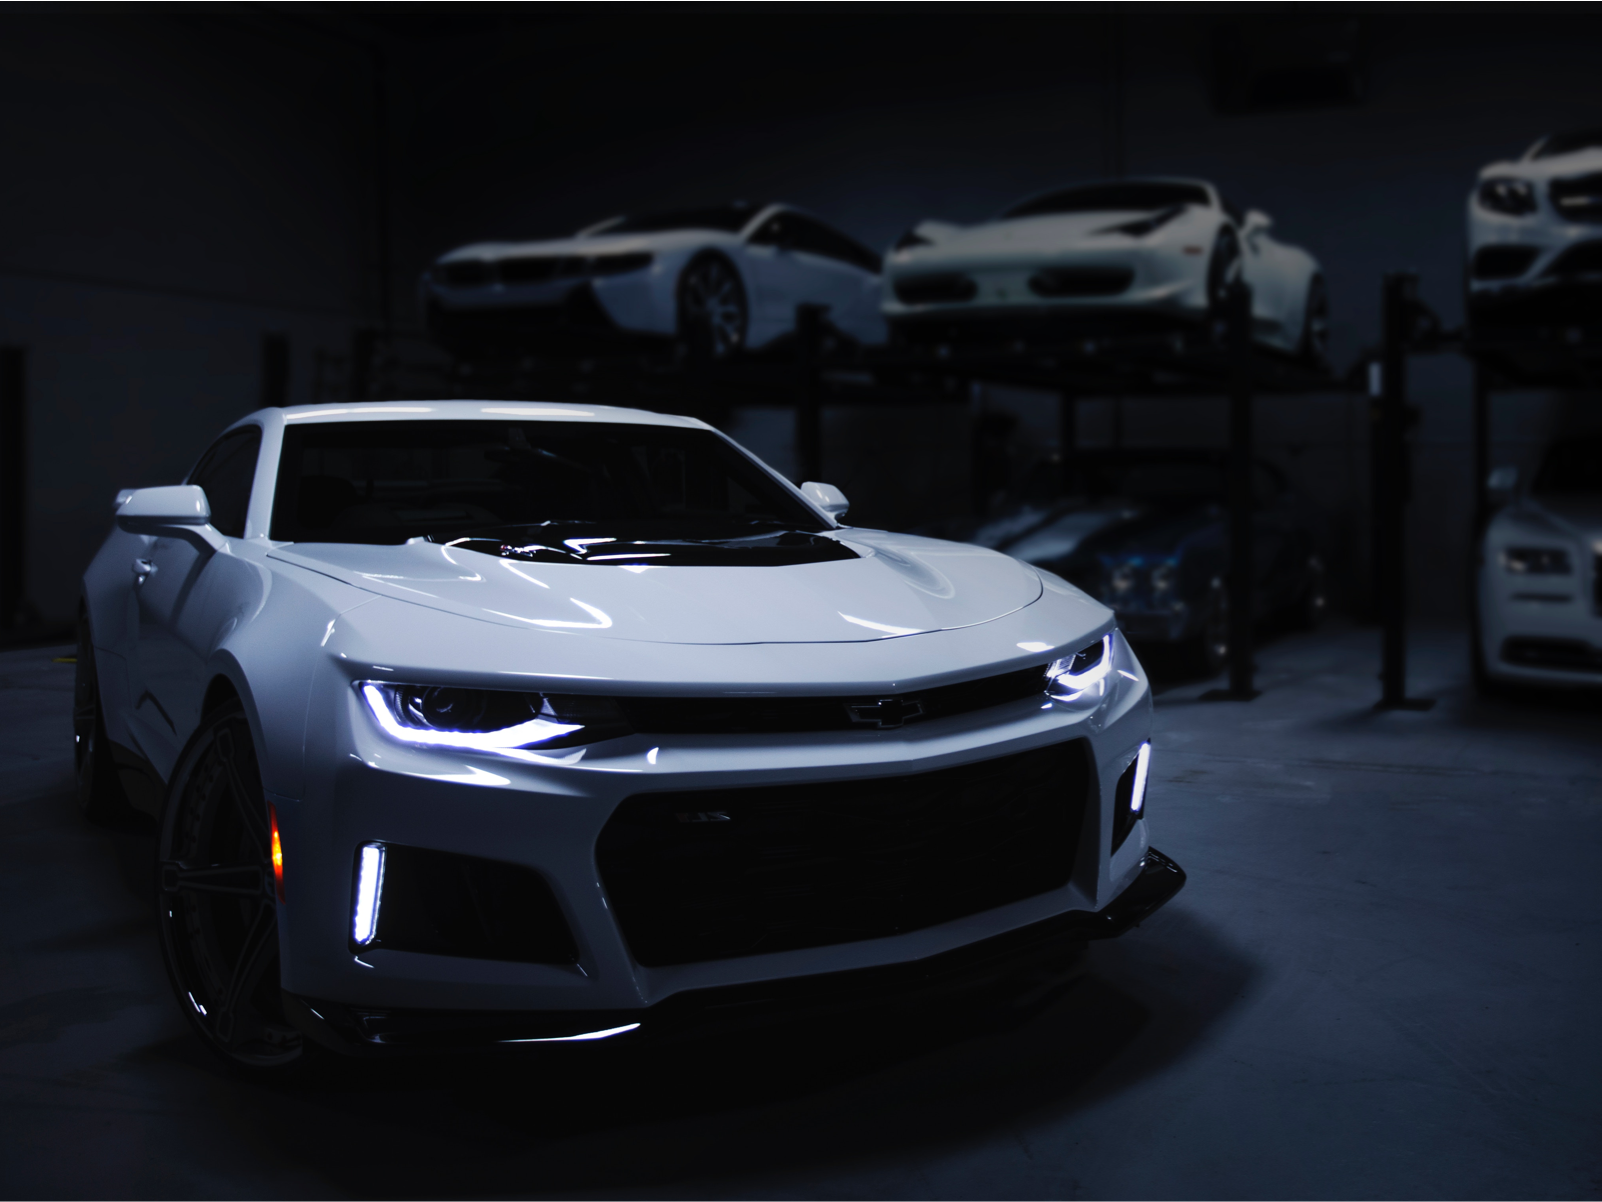
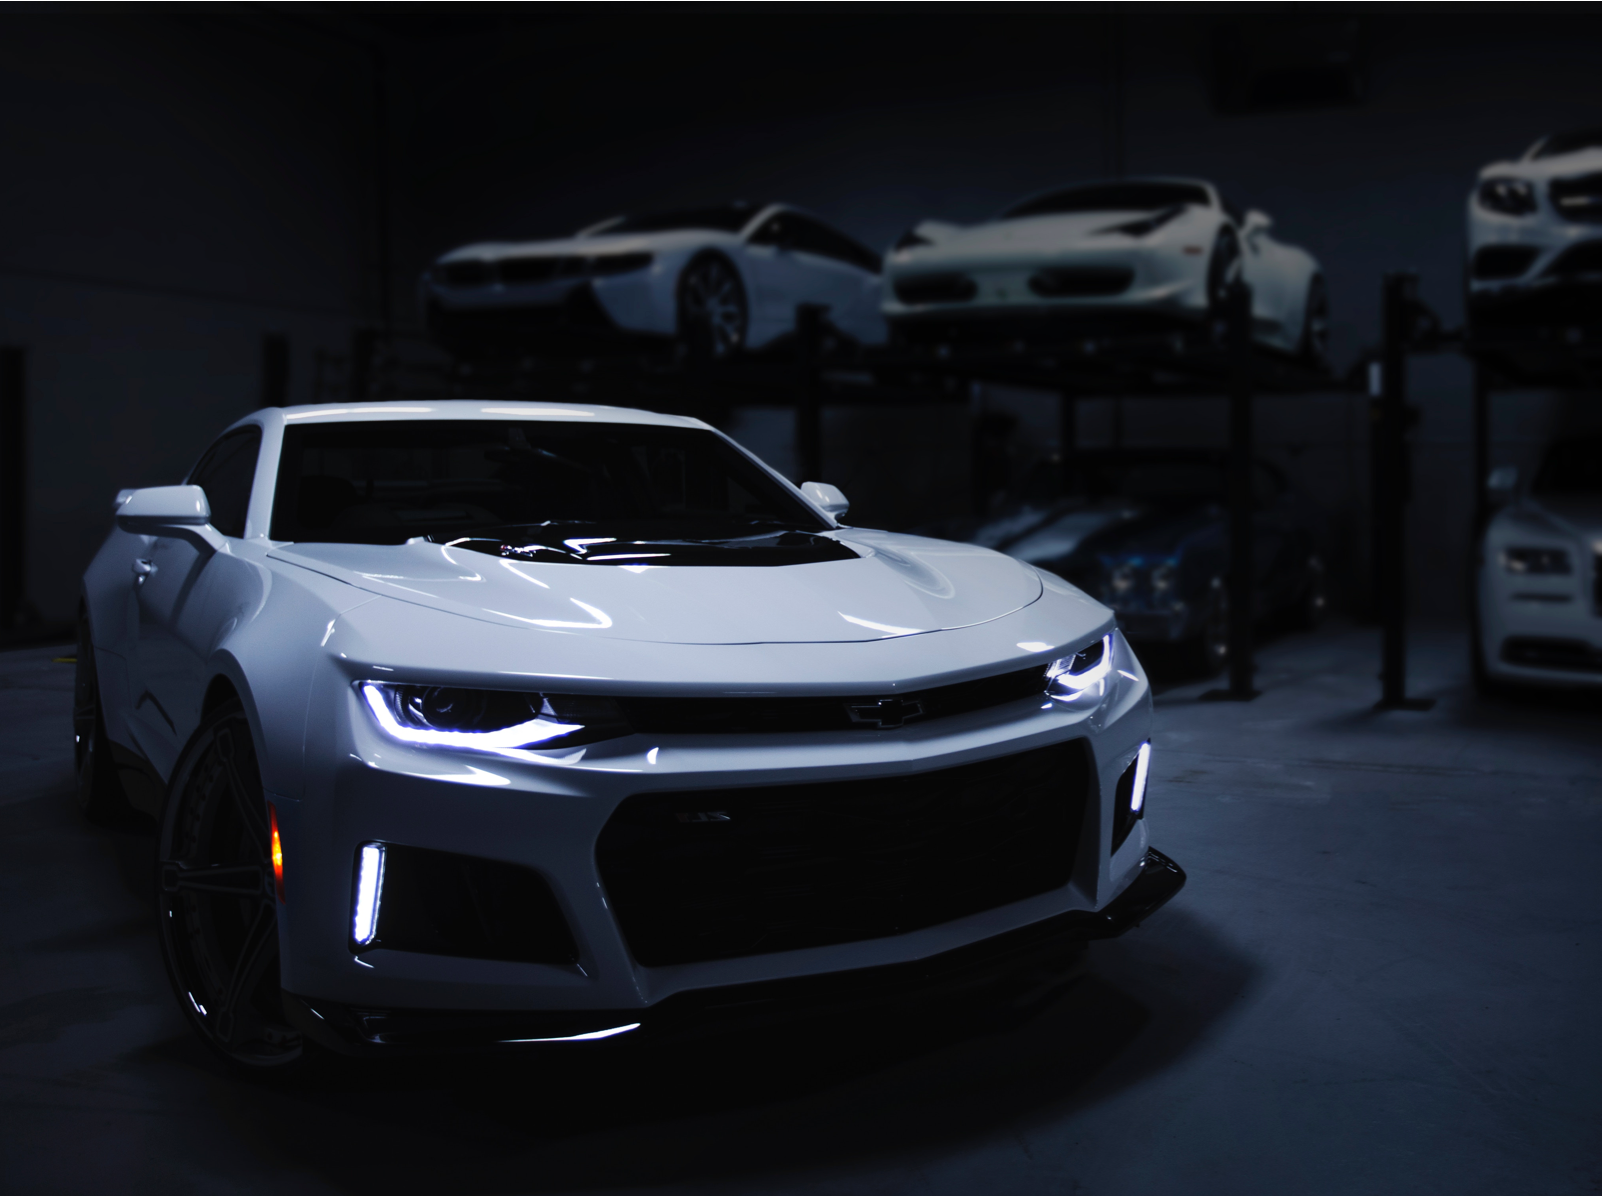
added css to rest of main sections and footer

diff --git a/style.css b/style.css
@@ -8,7 +8,9 @@ html { -moz-box-sizing: border-box; -webkit-box-sizing: border-box; box-sizing: 
 
 .sr-only { position: absolute; width: 1px; height: 1px; margin: -1px; border: 0; padding: 0; white-space: nowrap; clip-path: inset(100%); clip: rect(0 0 0 0); overflow: hidden;}
 
-/* stylesheet starts here */
+/* stylesheet start */
+
+/* font-sizes changed from design sheet to better match design image */
 
 * {
     margin: 0;
@@ -26,14 +28,14 @@ img {
     display: block;
 }
 
-/* header starts */
+/* header start */
 
 header {
     background-image: url(assets/image-1@2x.png);
     background-size: cover;
     background-position: center;
     height: 90vh;
-    color: white;
+    color: #ffffff;
 }
 
 header nav {
@@ -59,7 +61,7 @@ header nav ul li {
 header nav ul li a {
     font: 600 16px 'Catamaran', sans-serif;
     line-height: 29px;
-    color: white;
+    color: #ffffff;
     text-decoration: none;
     text-transform: uppercase;
     margin-left: 30px;
@@ -79,7 +81,7 @@ header h1 {
 header h2 {
     font: 26px 'Lato', sans-serif;
     letter-spacing: 1px;
-    color: white;
+    color: #ffffff;
     text-transform: lowercase;
     position: relative;
     top: 22vh;
@@ -98,13 +100,13 @@ header h2 {
 }
 
 .socials a {
-    color: white;
+    color: #ffffff;
     font-size: 24px;
 }
 
-/* header ends */
+/* header end */
 
-/* main starts */
+/* main start */
 
 main h2 {
     font: italic 700 36px 'Kanit', sans-serif;
@@ -116,21 +118,21 @@ main h2 {
 main p {
     font: 300 18px 'Roboto', sans-serif;
     line-height: 27px;
-    color: grey;
+    color: #808080;
     margin-top: 10px;
     margin-bottom: 36px;
 }
 
-button {
+/* button {
     background: #BA0621;
     font: italic 700 18px 'Kanit', sans-serif;
     letter-spacing: 1px;
     text-transform: uppercase;
-    color: white;
+    color: #ffffff;
     padding: 10px;
     border: none;
     vertical-align: bottom;
-}
+} */
 
 .news h2 {
     margin: 90px;
@@ -200,24 +202,127 @@ button {
     background-position: center;
 }
 
-.oscar ul li {
-    display: inline-block;
+.oscar div {
+    width: calc(72%/3);
+    float: left;
+    text-align: center;
+    margin-top: 90px;
+    margin-bottom: 90px;
 }
 
-.oscar ul li a {
-    font: italic 700 18px 'Kanit', sans-serif;
+.oscar div:first-child{
+    margin-left: 14%;
+}
+
+.oscar div:last-child {
+    margin-right: 14%;
+}
+
+.oscar i {
+    font-size: 50px;
+    color: #CC1D36;
+    margin-bottom: 20px;
+}
+
+.oscar a {
+    font: italic 700 26px 'Kanit', sans-serif;
     letter-spacing: 1px;
-    color: white;
+    color: #ffffff;
     text-decoration: none;
     text-transform: uppercase;
 }
 
-/* main ends */
+.contact {
+    background-color: #6C0918;
+}
 
-/* footer starts */
+.contact-email {
+    width: 40%;
+    margin: 90px auto 90px 10%;
+    float: left;
+}
 
-/* footer ends */
+.contact-info {
+    width: 20%;
+    margin: 90px 6%;
+    float: left;
+}
 
-/* responsive design starts */
+.contact-links {
+    width: 8%;
+    margin: 90px 10% 90px auto;
+    float: right;
+}
 
-/* responsive design ends */
+.contact h3 {
+    font: italic 700 22px 'Kanit', sans-serif;
+    line-height: 22px;
+    letter-spacing: 1px;
+    color: #ffffff;
+    text-transform: uppercase;
+}
+
+.contact p {
+    color: #ffffff;
+    margin: 10px auto;
+}
+
+.email-address input {
+    width: 70%;
+    font: 300 18px 'Roboto', sans-serif;
+    padding: 11px 30px;
+    border: none;
+}
+
+.contact-email button {
+    background-color: #000000;
+    font: italic 700 18px 'Kanit', sans-serif;
+    letter-spacing: 1px;
+    text-transform: uppercase;
+    color: #ffffff;
+    padding: 8px 22px;
+    border: none;
+}
+
+.contact-info h3 {
+    margin-bottom: 16px;
+}
+
+.contact-links li {
+    list-style: none;
+    text-align: right;
+}
+
+.contact-links li a {
+    font: italic 700 18px 'Kanit', sans-serif;
+    line-height: 26px;
+    letter-spacing: 1px;
+    color: #ffffff;
+    text-decoration: none;
+    text-transform: uppercase;
+    text-align: right;
+}
+
+/* main end */
+
+/* footer start */
+
+footer {
+    background-color: #0B0101;
+}
+
+footer p {
+    font: 400 16px 'Roboto', sans-serif;
+    line-height: 29px;
+    color: #ffffff;
+    padding: 4px;
+    text-align: center;
+}
+
+/* footer end */
+
+/* responsive design start */
+
+/* responsive design end */
+
+/* stylesheet end */

diff --git a/index.html b/index.html
@@ -86,6 +86,7 @@
             <div class="clearfix">
                 <div class="grid-image2">
                     <img src="assets/image-2-copy@2x.png" alt="low angle shot of white Chevrolet sports car parked in a garage, with other luxury cars stacked behind">
+                    <!-- image cropped to remove white line at bottom -->
                 </div>
 
                 <div class="grid-text2 wrapper">
@@ -99,38 +100,45 @@
             </div>
         </section>
         
-        <section class="oscar">
-            <ul>
-                <li><a href="">Shop Brands</a></li>
-                <li><a href="">Jobs</a></li>
-                <li><a href="">Events</a></li>
-            </ul>
+        <section class="oscar clearfix">
+            <div>
+                <a href=""><i class="fas fa-car"></i><br>Shop Brands</a>
+            </div>
+
+            <div>
+                <a href=""><i class="fas fa-briefcase"></i><br>Jobs</a>
+            </div>
+
+            <div>
+                <a href=""><i class="fas fa-calendar-check"></i><br>Events</a>
+            </div>
         </section>
 
-        <section class="wrapper clearfix">
-            <div>
+        <section class="contact clearfix">
+            <div class="contact-email">
                 <h3>Stay Updated</h3>
 
                 <p>Subscribe to our newsletter to stay updated.</p>
 
-                <!-- form: email address -->
-
-                <button>Subscribe</button>
+                <form action="#" method="POST" class="email-address">
+                    <label for="email" class="sr-only">Email address</label>
+                    <input type="email" name="email" id="sr-only" placeholder="email address" required="true"><button>Subscribe</button>
+                </form>
             </div>
 
-            <div>
+            <div class="contact-info">
                 <h3>Contact</h3>
-                <p>info@email.com | 123-456-7890</p>
-                <p>123 some road, Toronto, ON</p>
-                <p>A5A 5A5, Canada</p>
+                <p>info@email.com | 123-456-7890<br>123 some road, Toronto, ON<br>A5A 5A5, Canada</br>
             </div>
 
-            <ul>
-                <li><a href="">Home</a></li>
-                <li><a href="">About</a></li>
-                <li><a href="">Blog</a></li>
-                <li><a href="">Contact</a></li>
-            </ul>
+            <div class="contact-links">
+                <ul>
+                    <li><a href="#">Home</a></li>
+                    <li><a href="#">About</a></li>
+                    <li><a href="#">Blog</a></li>
+                    <li><a href="#">Contact</a></li>
+                </ul>
+            </div>
         </section>
     </main>
 
